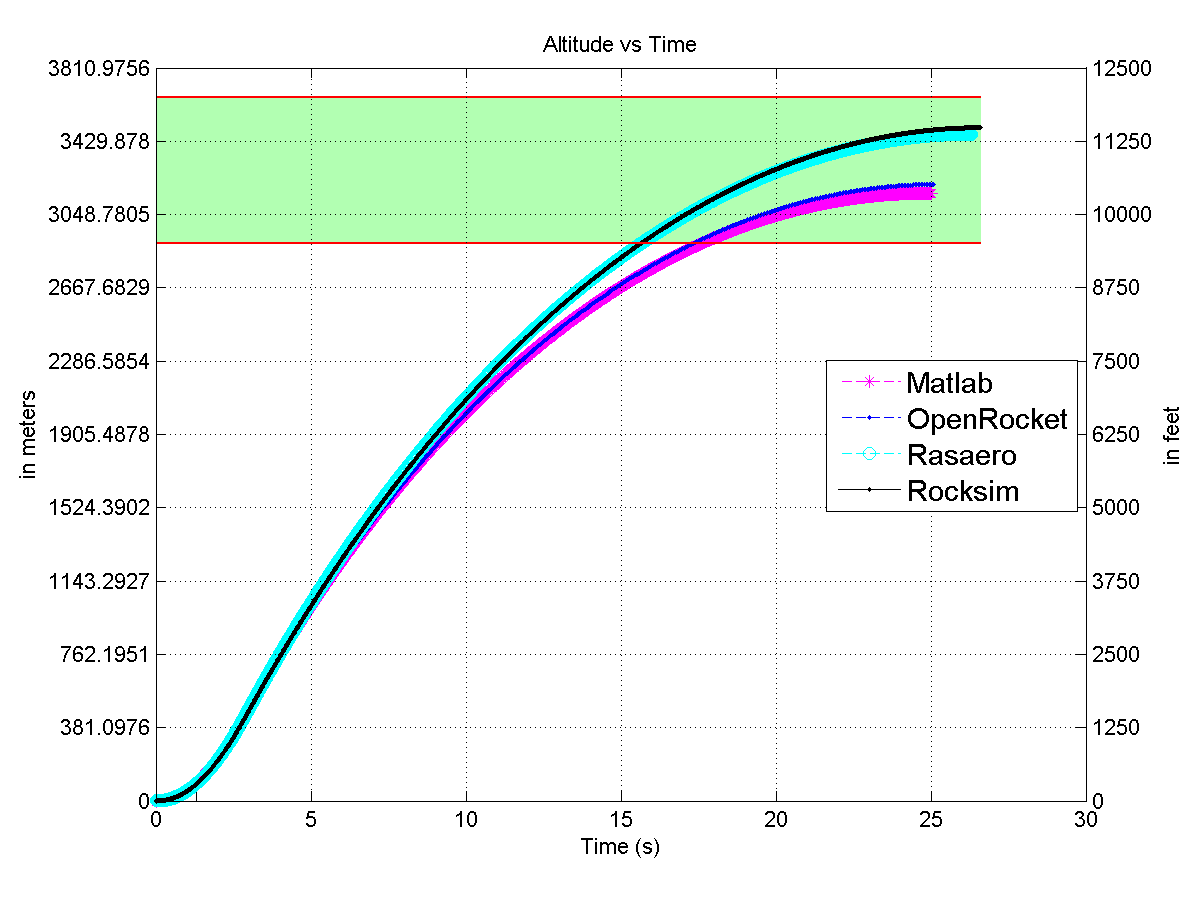
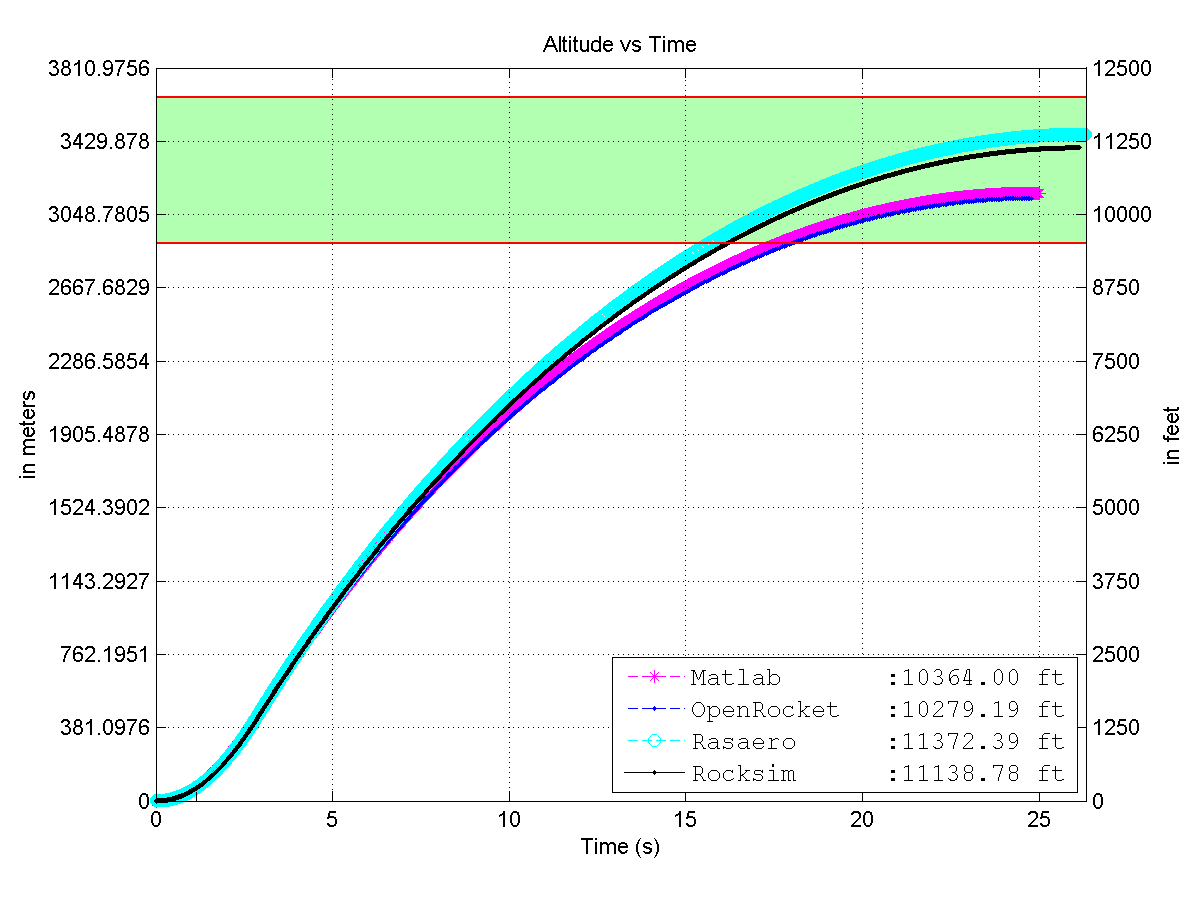
Updating plotting for CDR

diff --git a/functions/data/plotting/plot_error_altitude_v_time.m b/functions/data/plotting/plot_error_altitude_v_time.m
@@ -3,30 +3,35 @@ meter2feet = 3.28;
 upperbound = 12000/meter2feet;
 lowerbound = 9500/meter2feet;
 
-%% Plot shaded region for competition bounds
-x1 = Rocksim_Time;
-y1 = linspace(upperbound,upperbound,size(Rocksim_Time,1));
-y2 = linspace(lowerbound,lowerbound,size(Rocksim_Time,1));
 
 %% Find value index of apogee for each source
 % OpenRocket
-indexmax_openrocket = find(max(openrocket_Altitude) == openrocket_Altitude)
-time_to_apogee_openrocket = openrocket_VarName1(indexmax_openrocket)
+indexmax_openrocket = find(max(openrocket_Altitude) == openrocket_Altitude);
+time_to_apogee_openrocket = openrocket_VarName1(indexmax_openrocket);
 openrocket_altitude_max = openrocket_Altitude(indexmax_openrocket);
+openrocket_altitude_max = openrocket_altitude_max(1)*meter2feet;
 
 % RasAero
-indexmax_rasaero = find(max(rasaero_Altitudeft) == rasaero_Altitudeft)
-time_to_apogee_rasaero = rasaero_Timesec(indexmax_rasaero)
-rasaero_altitude_max = rasaero_Altitudeft(indexmax_rasaero)
+indexmax_rasaero = find(max(rasaero_Altitudeft) == rasaero_Altitudeft);
+time_to_apogee_rasaero = rasaero_Timesec(indexmax_rasaero);
+rasaero_altitude_max = rasaero_Altitudeft(indexmax_rasaero);
+rasaero_altitude_max = rasaero_altitude_max;
 
 % RockSim
-indexmax_Rocksim = find(max(Rocksim_AltitudeFeet) == Rocksim_AltitudeFeet)
-time_to_apogee_Rocksim = Rocksim_Time(indexmax_Rocksim)
-Rocksim_altitude_max = Rocksim_AltitudeFeet(indexmax_Rocksim)
+indexmax_Rocksim = find(max(Rocksim_AltitudeFeet) == Rocksim_AltitudeFeet);
+time_to_apogee_Rocksim = Rocksim_Time(indexmax_Rocksim);
+Rocksim_altitude_max = Rocksim_AltitudeFeet(indexmax_Rocksim);
+Rocksim_altitude_max = Rocksim_altitude_max;
+
+%% Plot shaded region for competition bounds
+x1 = rasaero_Timesec(1:indexmax_rasaero);
+y1 = linspace(upperbound,upperbound,size(rasaero_Timesec(1:indexmax_rasaero),1));
+y2 = linspace(lowerbound,lowerbound,size(rasaero_Timesec(1:indexmax_rasaero),1));
 
 %% Plot altitude error
-matlab_plot = plot(tout, altitude, 'm--*')
-hold on
+matlab_plot = plot(tout, altitude, 'm--*');
+
+hold on;
 openrocket_plot = plot(...
     openrocket_VarName1(1:indexmax_openrocket), ...
     openrocket_Altitude(1:indexmax_openrocket), ...
@@ -43,14 +48,18 @@ rocksim_plot = plot( ...
     'k- .' ...
 );
 ha = shadedplot(x1, y1, y2, [0.7, 1, 0.7], 'r'); %first area is red
-hold off
+hold off;
 
 h_legend = legend(...
-    [matlab_plot, openrocket_plot, rasaero_plot, rocksim_plot],...
-    'Matlab','OpenRocket','Rasaero','Rocksim', ...
-    'location', 'east' ...
+    [matlab_plot, openrocket_plot , rasaero_plot, rocksim_plot] , ...
+    strcat('Matlab       :' , sprintf('%0.2f' , floor( max(altitude)*meter2feet) ) , ' ft')        , ...
+    strcat('OpenRocket   :' , sprintf('%0.2f' , openrocket_altitude_max(1))        , ' ft')        , ...
+    strcat('Rasaero      :' , sprintf('%0.2f' , rasaero_altitude_max(1))           , ' ft')        , ...
+    strcat('Rocksim      :' , sprintf('%0.2f' , Rocksim_altitude_max(1))           , ' ft')        , ...
+    'location'              , 'southeast' ...
 );
-set(h_legend,'FontSize',14);
+set(h_legend,'FontSize',12);
+set(h_legend,'FontName','Courier New');
 
 %% fill region in between
 %{
@@ -67,6 +76,8 @@ title('Altitude vs Time');
 grid on;
 xlabel('Time (s)');
 ylabel('Altitude (m)');
+
+xlim([0,time_to_apogee_rasaero(end)]);
 
 %% provide imperial units on right vertical axis
 ylimit = [0,12500/meter2feet]; % ylimits in meters

diff --git a/functions/data/plotting/plot_error_mach_v_time.m b/functions/data/plotting/plot_error_mach_v_time.m
@@ -1,27 +1,27 @@
 %% Define globals
-upperbound = 0.9
+upperbound = 0.9;
 lowerbound = 0.8;
 
 %% Find value index of apogee for each source
 % OpenRocket
-indexmax_matlab = find(max(altitude) == altitude)
-time_to_apogee_matlab = tout(indexmax_matlab)
+indexmax_matlab = find(max(altitude) == altitude);
+time_to_apogee_matlab = tout(indexmax_matlab);
 matlab_mach_max = altitude(indexmax_openrocket);
 
 % OpenRocket
-indexmax_openrocket = find(max(openrocket_Altitude) == openrocket_Altitude)
-time_to_apogee_openrocket = openrocket_VarName1(indexmax_openrocket)
+indexmax_openrocket = find(max(openrocket_Altitude) == openrocket_Altitude);
+time_to_apogee_openrocket = openrocket_VarName1(indexmax_openrocket);
 openrocket_altitude_max = openrocket_Altitude(indexmax_openrocket);
 
 % RasAero
-indexmax_rasaero = find(max(rasaero_Altitudeft) == rasaero_Altitudeft)
-time_to_apogee_rasaero = rasaero_Timesec(indexmax_rasaero)
-rasaero_altitude_max = rasaero_Altitudeft(indexmax_rasaero)
+indexmax_rasaero = find(max(rasaero_Altitudeft) == rasaero_Altitudeft);
+time_to_apogee_rasaero = rasaero_Timesec(indexmax_rasaero);
+rasaero_altitude_max = rasaero_Altitudeft(indexmax_rasaero);
 
 % RockSim
-indexmax_Rocksim = find(max(Rocksim_AltitudeFeet) == Rocksim_AltitudeFeet)
-time_to_apogee_Rocksim = Rocksim_Time(indexmax_Rocksim)
-Rocksim_altitude_max = Rocksim_AltitudeFeet(indexmax_Rocksim)
+indexmax_Rocksim = find(max(Rocksim_AltitudeFeet) == Rocksim_AltitudeFeet);
+time_to_apogee_Rocksim = Rocksim_Time(indexmax_Rocksim);
+Rocksim_altitude_max = Rocksim_AltitudeFeet(indexmax_Rocksim);
 
 %% Define shaded region for competition bounds
 x1 = Rocksim_Time(1:indexmax_Rocksim);
@@ -54,16 +54,21 @@ rocksim_plot = plot( ...
 hold off
 h_legend = legend(...
     [matlab_plot, openrocket_plot, rasaero_plot, rocksim_plot],...
-    'Matlab','OpenRocket','Rasaero','Rocksim', ...
-    'location', 'east' ...
+    strcat('Matlab     :',sprintf('%0.2f', max(mach_number))),...
+    strcat('OpenRocket :', sprintf('%0.2f', max(openrocket_Machnumber))), ...
+    strcat('Rasaero    :',sprintf('%0.2f', max(rasaero_Mach))), ...
+    strcat('Rocksim    :',sprintf('%0.2f', max(Rocksim_Machnumber))), ...
+    'location', 'southeast' ...
 );
-set(h_legend,'FontSize',14);
+set(h_legend,'FontSize',12);
+set(h_legend,'FontName','Courier New');
 
 %% Plot details
 clear title xlabel ylabel
 title('Mach Number vs Time');
 xlabel('Time (s)');
 ylabel('Mach Number');
+ylim([0,0.9]);
 
 %% save plot
 if exist('saveplots')

diff --git a/functions/data/plotting/plot_error_dragforce_v_mach.m b/functions/data/plotting/plot_error_dragforce_v_mach.m
@@ -2,19 +2,19 @@ lbf2newton = 4.4482216152605;
 
 %% Find value index of apogee for each source
 % OpenRocket
-indexmax_openrocket = find(max(openrocket_Altitude) == openrocket_Altitude)
-time_to_apogee_openrocket = openrocket_VarName1(indexmax_openrocket)
+indexmax_openrocket = find(max(openrocket_Altitude) == openrocket_Altitude);
+time_to_apogee_openrocket = openrocket_VarName1(indexmax_openrocket);
 openrocket_altitude_max = openrocket_Altitude(indexmax_openrocket);
 
 % RasAero
-indexmax_rasaero = find(max(rasaero_Altitudeft) == rasaero_Altitudeft)
-time_to_apogee_rasaero = rasaero_Timesec(indexmax_rasaero)
-rasaero_altitude_max = rasaero_Altitudeft(indexmax_rasaero)
+indexmax_rasaero = find(max(rasaero_Altitudeft) == rasaero_Altitudeft);
+time_to_apogee_rasaero = rasaero_Timesec(indexmax_rasaero);
+rasaero_altitude_max = rasaero_Altitudeft(indexmax_rasaero);
 
 % RockSim
-indexmax_Rocksim = find(max(Rocksim_AltitudeFeet) == Rocksim_AltitudeFeet)
-time_to_apogee_Rocksim = Rocksim_Time(indexmax_Rocksim)
-Rocksim_altitude_max = Rocksim_AltitudeFeet(indexmax_Rocksim)
+indexmax_Rocksim = find(max(Rocksim_AltitudeFeet) == Rocksim_AltitudeFeet);
+time_to_apogee_Rocksim = Rocksim_Time(indexmax_Rocksim);
+Rocksim_altitude_max = Rocksim_AltitudeFeet(indexmax_Rocksim);
 
 %% Plot drag coef v mach number
 matlab_plot = plot(mach_number, drag_force, 'm--*')
@@ -41,10 +41,12 @@ h_legend = legend(...
     'Matlab','OpenRocket','Rasaero','Rocksim', ...
     'location', 'southeast' ...
 );
-set(h_legend,'FontSize',14);
+set(h_legend,'FontSize',12);
+set(h_legend,'FontName','Courier New');
 
 %% Graph Details
 clear title xlabel ylabel
+grid on;
 title('Drag Force vs Mach Number');
 xlabel('Mach Number');
 ylabel('Drag Force (N)');

diff --git a/functions/data/plotting/plot_error_dragcoef_v_mach.m b/functions/data/plotting/plot_error_dragcoef_v_mach.m
@@ -1,18 +1,18 @@
 %% Find value index of apogee for each source
 % OpenRocket
-indexmax_openrocket = find(max(openrocket_Altitude) == openrocket_Altitude)
-time_to_apogee_openrocket = openrocket_VarName1(indexmax_openrocket)
+indexmax_openrocket = find(max(openrocket_Altitude) == openrocket_Altitude);
+time_to_apogee_openrocket = openrocket_VarName1(indexmax_openrocket);
 openrocket_altitude_max = openrocket_Altitude(indexmax_openrocket);
 
 % RasAero
-indexmax_rasaero = find(max(rasaero_Altitudeft) == rasaero_Altitudeft)
-time_to_apogee_rasaero = rasaero_Timesec(indexmax_rasaero)
-rasaero_altitude_max = rasaero_Altitudeft(indexmax_rasaero)
+indexmax_rasaero = find(max(rasaero_Altitudeft) == rasaero_Altitudeft);
+time_to_apogee_rasaero = rasaero_Timesec(indexmax_rasaero);
+rasaero_altitude_max = rasaero_Altitudeft(indexmax_rasaero);
 
 % RockSim
-indexmax_Rocksim = find(max(Rocksim_AltitudeFeet) == Rocksim_AltitudeFeet)
-time_to_apogee_Rocksim = Rocksim_Time(indexmax_Rocksim)
-Rocksim_altitude_max = Rocksim_AltitudeFeet(indexmax_Rocksim)
+indexmax_Rocksim = find(max(Rocksim_AltitudeFeet) == Rocksim_AltitudeFeet);
+time_to_apogee_Rocksim = Rocksim_Time(indexmax_Rocksim);
+Rocksim_altitude_max = Rocksim_AltitudeFeet(indexmax_Rocksim);
 
 %% Plot drag coef v mach number
 matlab_plot = plot(mach_number, drag_coefficient, 'm--*')
@@ -39,7 +39,8 @@ h_legend = legend(...
     'Matlab','OpenRocket','Rasaero','Rocksim', ...
     'location', 'east' ...
 );
-set(h_legend,'FontSize',14);
+set(h_legend,'FontSize',12);
+set(h_legend,'FontName','Courier New');
 
 %% Graph Details
 clear title xlabel ylabel

diff --git a/testing/RocketFlight_TestScript.m b/testing/RocketFlight_TestScript.m
@@ -43,13 +43,7 @@ plotoutput = confirm('Plot output?');
 if plotoutput
    saveplots = confirm('Save plots (takes additional time)?');
    fprintf ( 'Plotting output ... ' );
-   timetoapogee_openrocket
-   import_openrocket_data
-   import_rocksim_data
-   import_rasaero_aero
-   import_rasaero_flight
-   plot_error
-   plot_rocket_angular_flight
+   plot_output
 end
 
 disp ( 'Done' );

diff --git a/functions/data/plotting/plot_error_mass_v_time.m b/functions/data/plotting/plot_error_mass_v_time.m
@@ -71,7 +71,8 @@ h_legend = legend(...
     'Matlab','OpenRocket','Rocksim', ...
     'location', 'northeast' ...
 );
-set(h_legend,'FontSize',14);
+set(h_legend,'FontSize',12);
+set(h_legend,'FontName','Courier New');
 
 clear title xlabel ylabel
 title('Mass vs Time');

diff --git a/functions/data/import_openrocket_data.m b/functions/data/import_openrocket_data.m
@@ -10,7 +10,7 @@
 
 %% Initialize variables.
 %filename = 'aurelius_openrocket_simulation_nowind_greenriver_temp_pressure_no_isa.csv';
-filename = 'aurelius_openrocket_worst.csv';
+filename = 'aurelius_openrocket_best.csv';
 delimiter = ',';
 startRow = 2;
 

diff --git a/functions/data/plot_output.m b/functions/data/plot_output.m
@@ -1,0 +1,7 @@
+timetoapogee_openrocket
+import_openrocket_data
+import_rocksim_data
+import_rasaero_aero
+import_rasaero_flight
+plot_error
+plot_rocket_angular_flight

diff --git a/functions/drag/StagnationPressureRatio.m b/functions/drag/StagnationPressureRatio.m
@@ -8,3 +8,4 @@ else if mach_number >= 1
         + 0.166/mach_number^4 ...
         + 0.035/mach_number^6;
 end
+end
